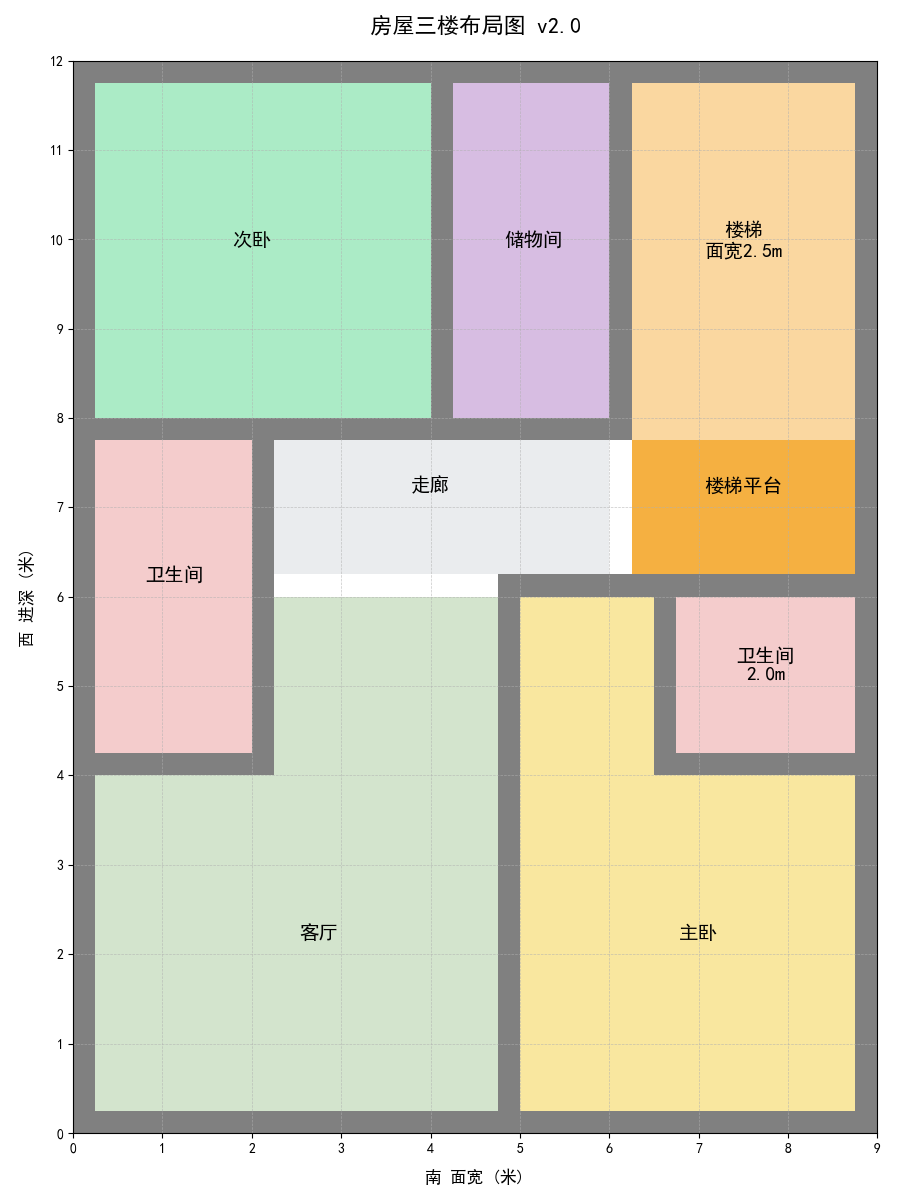
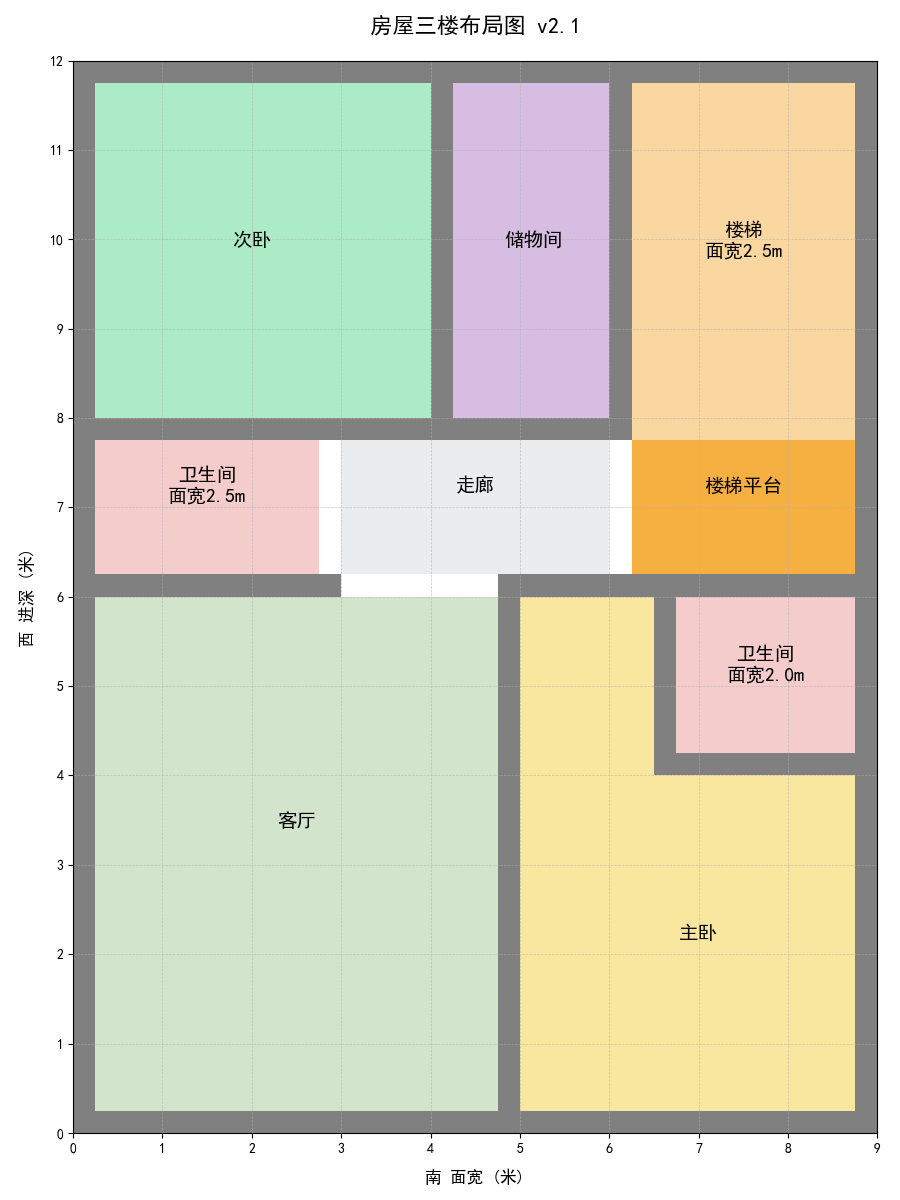
perf(floor*): update

diff --git a/floor_2nd.py b/floor_2nd.py
@@ -59,19 +59,18 @@ ax.add_patch(
 ax.text(7.5, 7.25, f"楼梯平台", ha='center', va='center', fontsize=14)
 
 # 其他走廊：剩余部分
-ax.add_patch(patches.Rectangle((2 + wall_thickness, 6.5 - wall_thickness), 3.75, 1.5,
-                               facecolor=colors['走廊']))
-ax.text(4, 7.25, f"走廊", ha='center', va='center', fontsize=14)
+ax.add_patch(patches.Rectangle((2.75 + wall_thickness, 6.5 - wall_thickness), 3, 1.5, facecolor=colors['走廊']))
+ax.text(4.5, 7.25, f"走廊", ha='center', va='center', fontsize=14)
 
 # 客厅：位于最前面的区域
 draw_wall(ax, 0, 0, 4.75 + wall_thickness, 5.75 + 2 * wall_thickness, exclude=['top', 'right'])  # 排除顶部墙壁
 ax.add_patch(patches.Rectangle((wall_thickness, wall_thickness), 4.75, 5.75, facecolor=colors['客厅'], label='客厅'))
-ax.text(2.75, 2.25, f"客厅", ha='center', va='center', fontsize=14)
+ax.text(2.5, 3.5, f"客厅", ha='center', va='center', fontsize=14)
 
 # 客厅卫生间：位于次卧上方
-draw_wall(ax, 0, 4, 1.75 + 2 * wall_thickness, 3.5 + 2 * wall_thickness)
-ax.add_patch(patches.Rectangle((wall_thickness, 4 + wall_thickness), 1.75, 3.5, facecolor=colors['卫生间']))
-ax.text(1.13, 6.25, f"卫生间", ha='center', va='center', fontsize=14)
+draw_wall(ax, 0, 6, 2.5 + 2 * wall_thickness, 1.5 + 2 * wall_thickness, adjacent=['right'])
+ax.add_patch(patches.Rectangle((wall_thickness, 6 + wall_thickness), 2.5, 1.5, facecolor=colors['卫生间']))
+ax.text(1.5, 7.25, f"卫生间\n面宽2.5m", ha='center', va='center', fontsize=14)
 
 # 主卧（右下角）
 draw_wall(ax, 5 - wall_thickness, 0, 3.75 + 2 * wall_thickness, 5.75 + 2 * wall_thickness)  # 排除顶部墙壁
@@ -81,7 +80,7 @@ ax.text(7, 2.25, f"主卧", ha='center', va='center', fontsize=14)
 # 卫生间（主卧里面）
 draw_wall(ax, 6.5, 4, 2 + 2 * wall_thickness, 1.75 + 2 * wall_thickness, exclude=['top', 'right'])  # 排除左侧墙壁
 ax.add_patch(patches.Rectangle((6.5 + wall_thickness, 4 + wall_thickness), 2, 1.75, facecolor=colors['卫生间']))
-ax.text(7.75, 5.25, f"卫生间\n2.0m", ha='center', va='center', fontsize=14)
+ax.text(7.75, 5.25, f"卫生间\n面宽2.0m", ha='center', va='center', fontsize=14)
 
 # 显示坐标轴标签
 plt.xlabel("南 面宽 (米)", fontsize=12, labelpad=10)

diff --git a/floor_3nd.py b/floor_3nd.py
@@ -59,19 +59,18 @@ ax.add_patch(
 ax.text(7.5, 7.25, f"楼梯平台", ha='center', va='center', fontsize=14)
 
 # 其他走廊：剩余部分
-ax.add_patch(patches.Rectangle((2 + wall_thickness, 6.5 - wall_thickness), 3.75, 1.5,
-                               facecolor=colors['走廊']))
-ax.text(4, 7.25, f"走廊", ha='center', va='center', fontsize=14)
+ax.add_patch(patches.Rectangle((2.75 + wall_thickness, 6.5 - wall_thickness), 3, 1.5, facecolor=colors['走廊']))
+ax.text(4.5, 7.25, f"走廊", ha='center', va='center', fontsize=14)
 
 # 客厅：位于最前面的区域
 draw_wall(ax, 0, 0, 4.75 + wall_thickness, 5.75 + 2 * wall_thickness, exclude=['top', 'right'])  # 排除顶部墙壁
 ax.add_patch(patches.Rectangle((wall_thickness, wall_thickness), 4.75, 5.75, facecolor=colors['客厅'], label='客厅'))
-ax.text(2.75, 2.25, f"客厅", ha='center', va='center', fontsize=14)
+ax.text(2.5, 3.5, f"客厅", ha='center', va='center', fontsize=14)
 
 # 客厅卫生间：位于次卧上方
-draw_wall(ax, 0, 4, 1.75 + 2 * wall_thickness, 3.5 + 2 * wall_thickness)
-ax.add_patch(patches.Rectangle((wall_thickness, 4 + wall_thickness), 1.75, 3.5, facecolor=colors['卫生间']))
-ax.text(1.13, 6.25, f"卫生间", ha='center', va='center', fontsize=14)
+draw_wall(ax, 0, 6, 2.5 + 2 * wall_thickness, 1.5 + 2 * wall_thickness, adjacent=['right'])
+ax.add_patch(patches.Rectangle((wall_thickness, 6 + wall_thickness), 2.5, 1.5, facecolor=colors['卫生间']))
+ax.text(1.5, 7.25, f"卫生间\n面宽2.5m", ha='center', va='center', fontsize=14)
 
 # 主卧（右下角）
 draw_wall(ax, 5 - wall_thickness, 0, 3.75 + 2 * wall_thickness, 5.75 + 2 * wall_thickness)  # 排除顶部墙壁
@@ -81,7 +80,7 @@ ax.text(7, 2.25, f"主卧", ha='center', va='center', fontsize=14)
 # 卫生间（主卧里面）
 draw_wall(ax, 6.5, 4, 2 + 2 * wall_thickness, 1.75 + 2 * wall_thickness, exclude=['top', 'right'])  # 排除左侧墙壁
 ax.add_patch(patches.Rectangle((6.5 + wall_thickness, 4 + wall_thickness), 2, 1.75, facecolor=colors['卫生间']))
-ax.text(7.75, 5.25, f"卫生间\n2.0m", ha='center', va='center', fontsize=14)
+ax.text(7.75, 5.25, f"卫生间\n面宽2.0m", ha='center', va='center', fontsize=14)
 
 # 显示坐标轴标签
 plt.xlabel("南 面宽 (米)", fontsize=12, labelpad=10)

diff --git a/floor_3_5nd.py b/floor_3_5nd.py
@@ -59,21 +59,18 @@ ax.add_patch(
 ax.text(7.5, 7.25, f"楼梯平台", ha='center', va='center', fontsize=14)
 
 # 其他走廊：剩余部分
-ax.add_patch(patches.Rectangle((2 + wall_thickness, 6.5 - wall_thickness), 3.75, 1.5,
-                               facecolor=colors['走廊']))
-ax.text(4, 7.25, f"走廊", ha='center', va='center', fontsize=14)
+ax.add_patch(patches.Rectangle((2.75 + wall_thickness, 6.5 - wall_thickness), 3, 1.5, facecolor=colors['走廊']))
+ax.text(4.5, 7.25, f"走廊", ha='center', va='center', fontsize=14)
 
 # 阳台：位于最前面的区域
 draw_wall(ax, 0, 0, 4.75 + wall_thickness, 5.75 + 2 * wall_thickness, exclude=['top', 'right'])  # 排除顶部墙壁
 ax.add_patch(patches.Rectangle((wall_thickness, wall_thickness), 4.75, 5.75, facecolor=colors['阳台'], label='阳台'))
 ax.text(2.5, 3.5, f"阳台", ha='center', va='center', fontsize=14)
 
-draw_wall(ax, 2, 0, 1 + wall_thickness, 5.75 + 2 * wall_thickness, exclude=['left', 'right'])  # 排除顶部墙壁
-
-# 卫生间
-draw_wall(ax, 0, 6, 1.75 + 2 * wall_thickness, 1.5 + 2 * wall_thickness, adjacent=['right'])
-ax.add_patch(patches.Rectangle((wall_thickness, 6 + wall_thickness), 1.75, 1.5, facecolor=colors['卫生间']))
-ax.text(1.13, 7.25, f"卫生间", ha='center', va='center', fontsize=14)
+# 客厅卫生间
+draw_wall(ax, 0, 6, 2.5 + 2 * wall_thickness, 1.5 + 2 * wall_thickness, adjacent=['right'])
+ax.add_patch(patches.Rectangle((wall_thickness, 6 + wall_thickness), 2.5, 1.5, facecolor=colors['卫生间']))
+ax.text(1.5, 7.25, f"卫生间\n面宽2.5m", ha='center', va='center', fontsize=14)
 
 # 储物间（右下角）
 draw_wall(ax, 5 - wall_thickness, 0, 3.75 + 2 * wall_thickness, 3.75 + 2 * wall_thickness)  # 排除顶部墙壁

diff --git a/globals.py b/globals.py
@@ -7,7 +7,7 @@
 @Description: 
 """
 
-VERSION = "v2.0"
+VERSION = "v2.1"
 
 FLOOR_1_TITLE = f"房屋一楼布局图 {VERSION}"
 FLOOR_1_5_TITLE = f"厨房布局图 {VERSION}"
